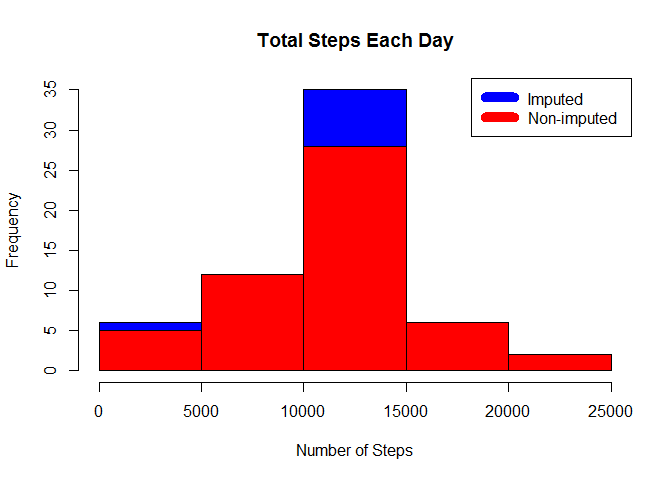
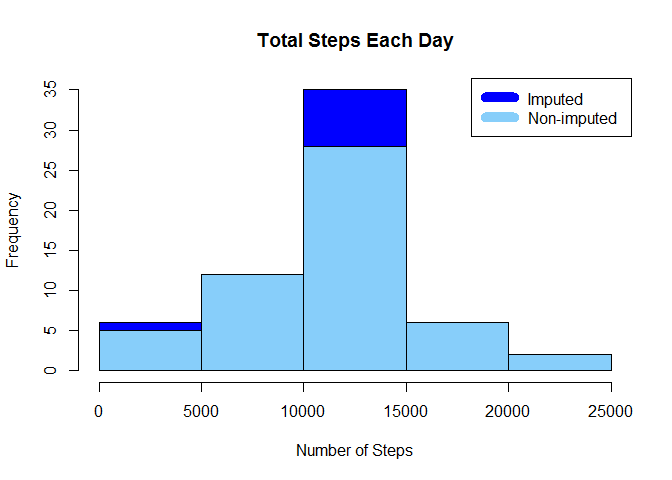
Update content
Revised the Rmd file which affected the Md file and the Html file and
figure

Changed region(s): [[0.125, 0.2812, 0.9062, 0.7812], [0.7188, 0.2188, 0.7812, 0.2812]]

diff --git a/PA1_template.html b/PA1_template.html
@@ -228,10 +228,20 @@ hist(steps_by_day$steps, main = paste(&quot;Total Steps Each Day&quot;), col=&qu
 <p>Calculate mean and median of the total number of steps taken per day.</p>
 
 <pre><code class="r">rmean &lt;- mean(steps_by_day$steps)
-rmedian &lt;- median(steps_by_day$steps)
+rmean # print value to console
 </code></pre>
 
-<p>The mean is 1.0766 × 104 and the median is 10765.</p>
+<pre><code>## [1] 10766.19
+</code></pre>
+
+<pre><code class="r">rmedian &lt;- median(steps_by_day$steps)
+rmedian # print value to console
+</code></pre>
+
+<pre><code>## [1] 10765
+</code></pre>
+
+<p>The mean is 1.0766 × 10<sup>4</sup> and the median is 10765.</p>
 
 <h2>What is the average daily activity pattern?</h2>
 
@@ -243,8 +253,20 @@ rmedian &lt;- median(steps_by_day$steps)
 </ul>
 
 <pre><code class="r">steps_by_interval &lt;- aggregate(steps ~ interval, data, mean)
+head(steps_by_interval) # print value to console
+</code></pre>
 
-plot(steps_by_interval$interval,steps_by_interval$steps, type=&quot;l&quot;, xlab=&quot;Interval&quot;, ylab=&quot;Number of Steps&quot;,main=&quot;Average Number of Steps per Day by Interval&quot;)
+<pre><code>##   interval     steps
+## 1        0 1.7169811
+## 2        5 0.3396226
+## 3       10 0.1320755
+## 4       15 0.1509434
+## 5       20 0.0754717
+## 6       25 2.0943396
+</code></pre>
+
+<pre><code class="r">plot(steps_by_interval$interval,steps_by_interval$steps, type=&quot;l&quot;, xlab=&quot;Interval&quot;, 
+     ylab=&quot;Number of Steps&quot;,main=&quot;Average Number of Steps per Day by Interval&quot;)
 </code></pre>
 
[1 lines of base64/hex data omitted]
@@ -252,6 +274,10 @@ plot(steps_by_interval$interval,steps_by_interval$steps, type=&quot;l&quot;, xla
 <p>Find interval with most average steps.</p>
 
 <pre><code class="r">max_interval &lt;- steps_by_interval[which.max(steps_by_interval$steps),1]
+max_interval # print value to console
+</code></pre>
+
+<pre><code>## [1] 835
 </code></pre>
 
 <p>The 5-minute interval, on average across all the days in the dataset, containing the maximum number of steps is 835.</p>
@@ -260,8 +286,23 @@ plot(steps_by_interval$interval,steps_by_interval$steps, type=&quot;l&quot;, xla
 
 <p>Note that there are a number of days/intervals where there are missing values (coded as NA). The presence of missing days may introduce bias into some calculations or summaries of the data. In this case, missing data needed to be imputed by inserting the mean for each 5-minute interval. Thus, if interval 10 was missing on 10-02-2012, the average for that interval for all days (0.1320755) is used to replace the NA.</p>
 
-<pre><code class="r">incomplete &lt;- sum(!complete.cases(data)) # Calculate total number of missing values in the dataset (i.e. the total number of rows with NAs)
-imputed_data &lt;- transform(data, steps = ifelse(is.na(data$steps), steps_by_interval$steps[match(data$interval, steps_by_interval$interval)], data$steps)) # Create a new dataset that is equal to the original dataset
+<pre><code class="r"># Calculate total number of missing values in the dataset (i.e. the total number of rows with NAs)
+incomplete &lt;- sum(!complete.cases(data)) 
+incomplete #print value to console
+</code></pre>
+
+<pre><code>## [1] 2304
+</code></pre>
+
+<pre><code class="r"># Create a new dataset that is equal to the original dataset
+imputed_data &lt;- transform(data, 
+                          steps = ifelse(is.na(data$steps), 
+                                         steps_by_interval$steps[match(data$interval, 
+                                                                       steps_by_interval$interval)], 
+                                         data$steps)) 
+</code></pre>
+
+<pre><code>## Error in match(data$interval, steps_by_interval$interval): unused argument (steps_by_interval$interval)
 </code></pre>
 
 <p>Zeroes were imputed for 10-01-2012 because it was the first day and would have been over 9,000 steps higher than the following day, which had only 126 steps. NAs then were assumed to be zeros to fit the rising trend of the data.</p>
@@ -272,41 +313,60 @@ imputed_data &lt;- transform(data, steps = ifelse(is.na(data$steps), steps_by_in
 <p>Recount total steps by day and create Histogram.</p>
 
 <pre><code class="r">steps_by_day_i &lt;- aggregate(steps ~ date, imputed_data, sum)
-hist(steps_by_day_i$steps, main = paste(&quot;Total Steps Each Day&quot;), col=&quot;blue&quot;, xlab=&quot;Number of Steps&quot;)
+hist(steps_by_day_i$steps, main = paste(&quot;Total Steps Each Day&quot;), 
+     col=&quot;blue&quot;, xlab=&quot;Number of Steps&quot;)
 
 #Create Histogram to show difference. 
-hist(steps_by_day$steps, main = paste(&quot;Total Steps Each Day&quot;), col=&quot;red&quot;, xlab=&quot;Number of Steps&quot;, add=T)
-legend(&quot;topright&quot;, c(&quot;Imputed&quot;, &quot;Non-imputed&quot;), col=c(&quot;blue&quot;, &quot;red&quot;), lwd=10)
+hist(steps_by_day$steps, main = paste(&quot;Total Steps Each Day&quot;), col=&quot;lightskyblue&quot;, 
+     xlab=&quot;Number of Steps&quot;, add=T)
+legend(&quot;topright&quot;, c(&quot;Imputed&quot;, &quot;Non-imputed&quot;), col=c(&quot;blue&quot;, &quot;lightskyblue&quot;), lwd=10)
 </code></pre>
 
[2 lines of base64/hex data omitted]
 
 <p>Calculate new mean and median for imputed data.</p>
 
 <pre><code class="r">rmean.i &lt;- mean(steps_by_day_i$steps)
-rmedian.i &lt;- median(steps_by_day_i$steps)
+rmean.i # print value to console
+</code></pre>
+
+<pre><code>## [1] 10589.69
+</code></pre>
+
+<pre><code class="r">rmedian.i &lt;- median(steps_by_day_i$steps)
+rmedian.i # print value to console
+</code></pre>
+
+<pre><code>## [1] 10766.19
 </code></pre>
 
 <p>Calculate total difference.</p>
 
 <pre><code class="r">total_diff &lt;- sum(steps_by_day_i$steps) - sum(steps_by_day$steps)
+total_diff # print values to console
+</code></pre>
+
+<pre><code>## [1] 75363.32
 </code></pre>
 
 <ul>
-<li>The imputed data mean is 1.059 × 104</li>
-<li>The imputed data median is 1.0766 × 104</li>
+<li>The imputed data mean is 1.059 × 10<sup>4</sup></li>
+<li>The imputed data median is 1.0766 × 10<sup>4</sup></li>
 <li>The difference between the non-imputed mean and imputed mean is -176.4949</li>
 <li>The difference between the non-imputed mean and imputed mean is 1.1887</li>
-<li>The difference between total number of steps between imputed and non-imputed data is 7.5363 × 104. Thus, there were 7.5363 × 104 more steps in the imputed data.</li>
+<li>The difference between total number of steps between imputed and non-imputed data is 7.5363 × 10<sup>4.</sup> Hence, there were 7.5363 × 10<sup>4</sup> more steps in the imputed data.</li>
 </ul>
 
 <h2>Are there differences in activity patterns between weekdays and weekends?</h2>
 
 <p>Created a plot to compare and contrast number of steps between the week and weekend. </p>
 
-<pre><code class="r">weekdays &lt;- c(&quot;Monday&quot;, &quot;Tuesday&quot;, &quot;Wednesday&quot;, &quot;Thursday&quot;, 
+<pre><code class="r"># Create a new factor variable &#39;dow&#39;in the dataset with two levels - &quot;weekday&quot; and &quot;weekend&quot; 
+# indicating whether a given date is a weekday or weekend day.
+weekdays &lt;- c(&quot;Monday&quot;, &quot;Tuesday&quot;, &quot;Wednesday&quot;, &quot;Thursday&quot;, 
               &quot;Friday&quot;)
-imputed_data$dow = as.factor(ifelse(is.element(weekdays(as.Date(imputed_data$date)),weekdays), &quot;Weekday&quot;, &quot;Weekend&quot;)) # Create a new factor variable &#39;dow&#39;in the dataset with two levels - &quot;weekday&quot; and &quot;weekend&quot; indicating whether a given date is a weekday or weekend day.
+imputed_data$dow = as.factor(ifelse(is.element(weekdays(as.Date(imputed_data$date)),
+                                               weekdays), &quot;Weekday&quot;, &quot;Weekend&quot;)) 
 
 steps_by_interval_i &lt;- aggregate(steps ~ interval + dow, imputed_data, mean)
 
@@ -315,7 +375,9 @@ library(lattice)
 # Make a panel plot containing a time series plot (i.e. type = &quot;l&quot;)
 # of the 5-minute interval (x-axis) and the average number of steps taken, 
 # averaged across all weekday days or weekend days (y-axis).
-xyplot(steps_by_interval_i$steps ~ steps_by_interval_i$interval|steps_by_interval_i$dow, main=&quot;Average Steps per Day by Interval&quot;,xlab=&quot;Interval&quot;, ylab=&quot;Steps&quot;,layout=c(1,2), type=&quot;l&quot;)
+xyplot(steps_by_interval_i$steps ~ steps_by_interval_i$interval|steps_by_interval_i$dow, 
+       main=&quot;Average Steps per Day by Interval&quot;,xlab=&quot;Interval&quot;, 
+       ylab=&quot;Steps&quot;,layout=c(1,2), type=&quot;l&quot;)
 </code></pre>
 
[1 lines of base64/hex data omitted]
